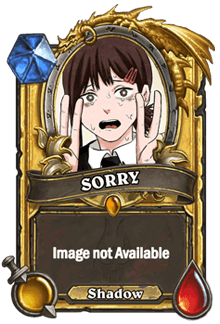
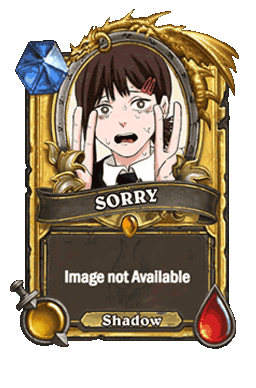
Replaced fallback and lazy loading images and refactored their styles

diff --git a/src/Components/SearchResult/CardBlock/index.tsx b/src/Components/SearchResult/CardBlock/index.tsx
@@ -27,12 +27,11 @@ const CardBlock: React.FC<CardProps> = (props) => {
     triggerOnce: true
   })
 
-  const fallBackClass = 'w-52 rounded align-middle p-0 m-0 hover:brightness-110 hover:cursor-pointer'
-  const regularClass = 'w-56 rounded align-middle p-0 m-0 hover:brightness-110 hover:cursor-pointer'
+  const regularClass = `w-56 rounded align-middle p-0 m-0 hover:brightness-110 hover:cursor-pointer transition-all`
+  
   // in case the api does not have an image for the card
   const addImageFallback = (event: SyntheticEvent<HTMLImageElement, Event>) => {
     event.currentTarget.src = fallBackImg;
-    event.currentTarget.className = fallBackClass
   };
   return (
     <div ref={ref}
@@ -50,7 +49,7 @@ const CardBlock: React.FC<CardProps> = (props) => {
       {inView ?
         <img className={regularClass}
           src={`https://art.hearthstonejson.com/v1/render/latest/enUS/256x/${props.card.cardId}.png`} alt='card'
-          onError={addImageFallback} /> : <img className={fallBackClass} src={lazyImg} alt='card' />
+          onError={addImageFallback} /> : <img className={regularClass} src={lazyImg} alt='card' />
       }
       </div>
 
